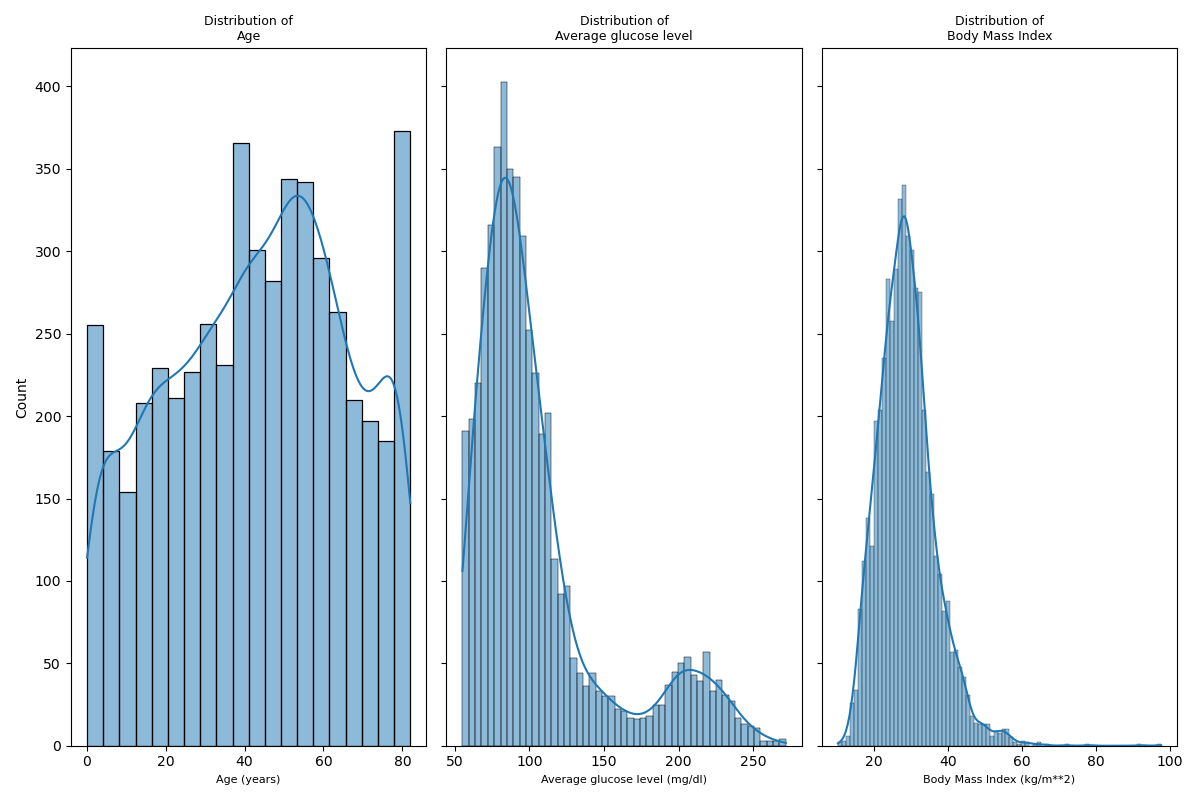
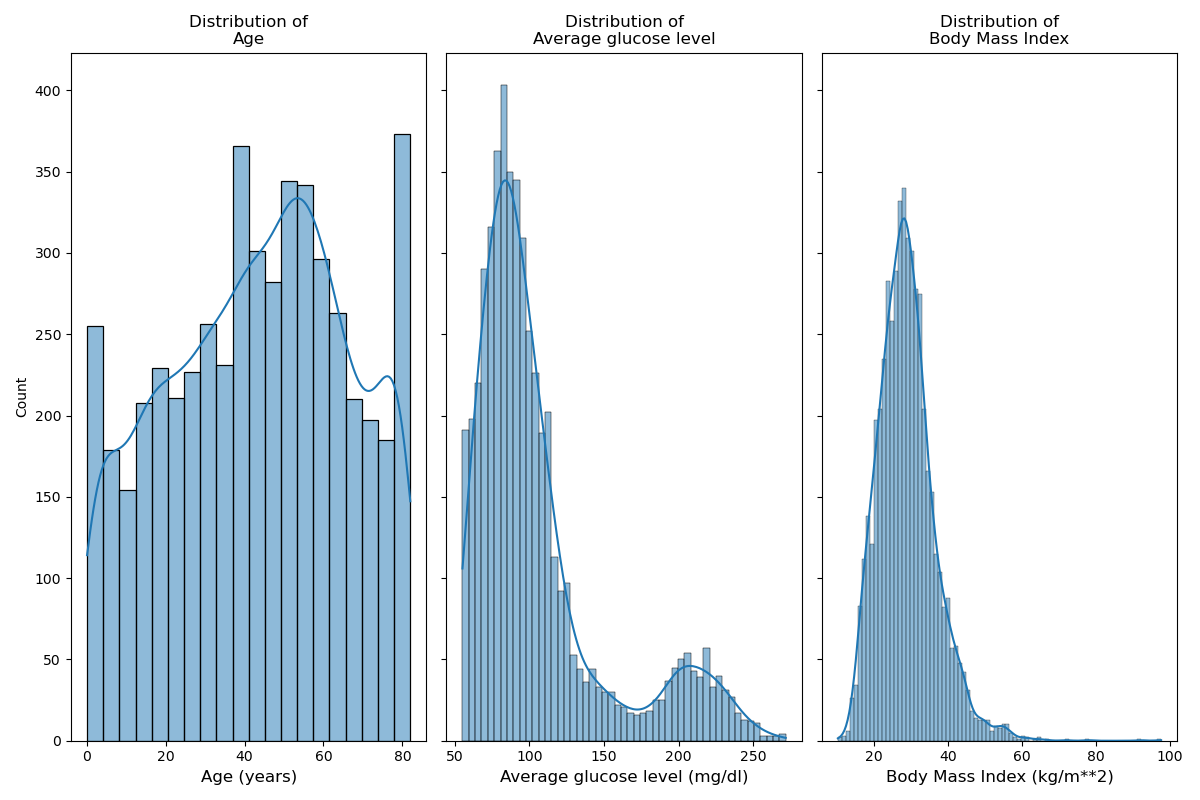
Change font size

diff --git a/Code/main.py b/Code/main.py
@@ -834,8 +834,8 @@ def data_exploration(data):
             kde=True, 
             ax=ax
         )
-        ax.set_title(f"Distribution of\n{titles[vars[i]]}", fontsize=9)
-        ax.set_xlabel(xlabels[vars[i]], fontsize=8)
+        ax.set_title(f"Distribution of\n{titles[vars[i]]}", fontsize=12)
+        ax.set_xlabel(xlabels[vars[i]], fontsize=12)
         if i not in [0, 3]:
             ax.set_ylabel(None)
     fig.tight_layout()
